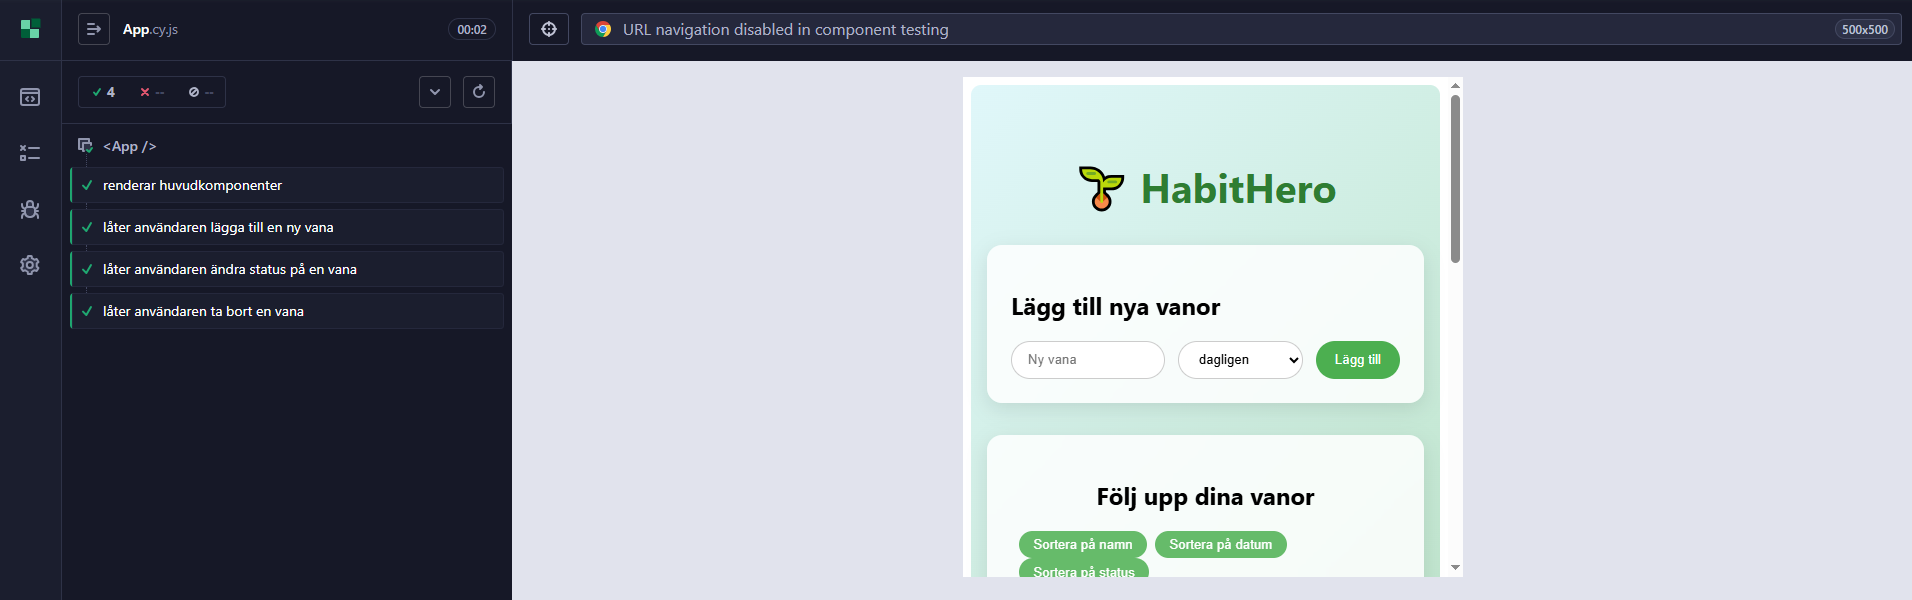
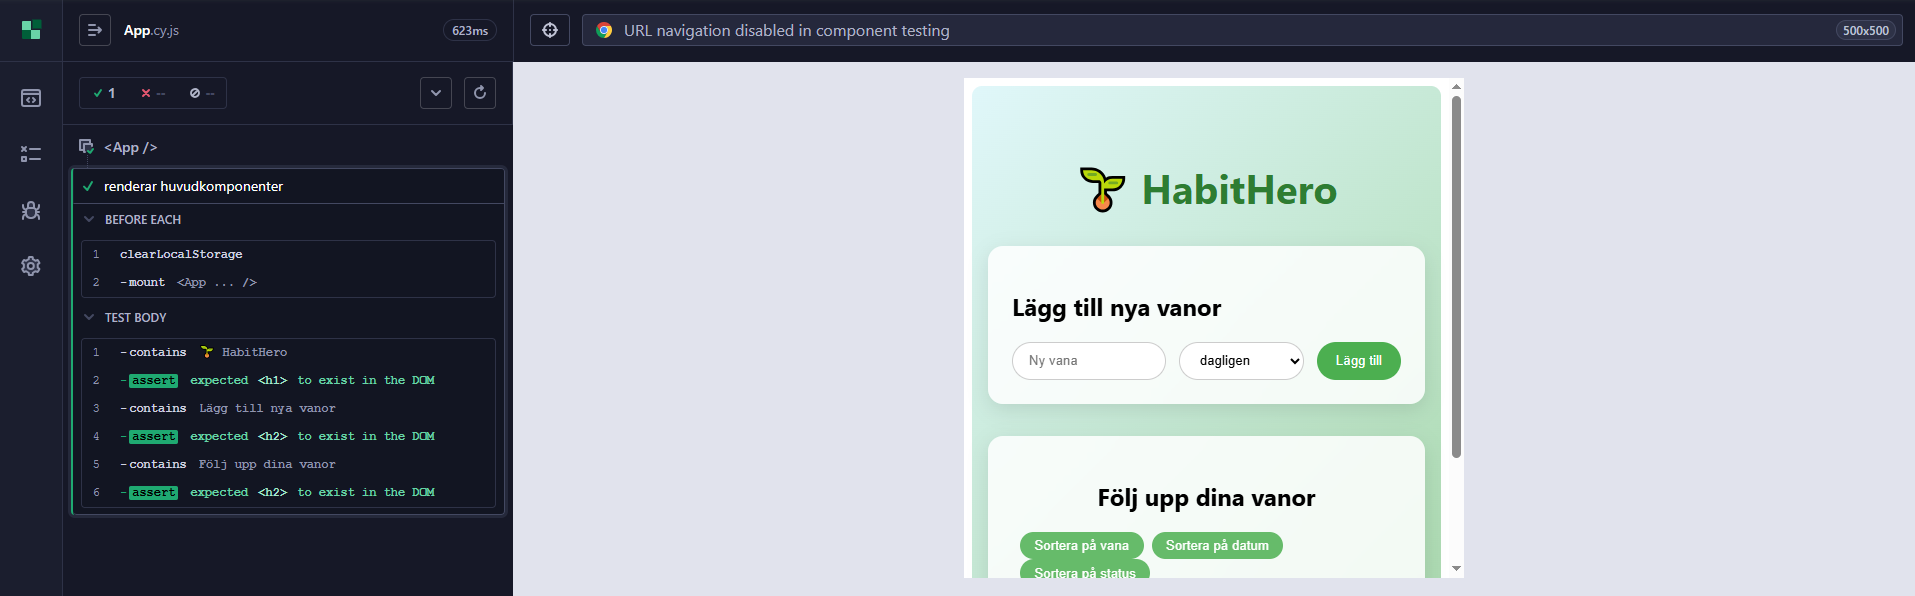
Småjusteringar samt fixade till README-filen för inlämning

diff --git a/src/App.cy.js b/src/App.cy.js
@@ -11,47 +11,4 @@ describe('<App />', () => {
     cy.contains('Lägg till nya vanor').should('exist')
     cy.contains('Följ upp dina vanor').should('exist')
   })
-
-  it('låter användaren lägga till en ny vana', () => {
-    cy.get('.habit-form-section').within(() => {
-      cy.get('input').type('Dricka vatten')
-      cy.get('select').select('dagligen')
-      cy.get('form').submit()
-    })
-
-    cy.contains('Dricka vatten').should('exist')
-  })
-
-  it('låter användaren ändra status på en vana', () => {
-    // Lägg till vana först
-    cy.get('.habit-form-section').within(() => {
-      cy.get('input').type('Springa')
-      cy.get('select').select('veckovis')
-      cy.get('form').submit()
-    })
-
-    // Ändra status på rätt habit-item
-    cy.contains('.habit-item', 'Springa')
-      .find('select')
-      .select('Implementerad')
-
-    cy.contains('Implementerade vanor').should('exist')
-    cy.contains('.implemented .habit-item', 'Springa').should('exist')
-  })
-
-  it('låter användaren ta bort en vana', () => {
-    // Lägg till vana först
-    cy.get('.habit-form-section').within(() => {
-      cy.get('input').type('Meditera')
-      cy.get('select').select('dagligen')
-      cy.get('form').submit()
-    })
-
-    // Ta bort rätt vana
-    cy.contains('.habit-item', 'Meditera')
-      .find('.btn.remove')
-      .click()
-
-    cy.contains('Meditera').should('not.exist')
-  })
 })

diff --git a/src/views/HabitTracker.vue b/src/views/HabitTracker.vue
@@ -55,7 +55,7 @@ const implementedHabits = computed(() =>
       <div class="habit-header">
         <h2>Följ upp dina vanor</h2>
         <div class="sort-buttons">
-          <button @click="doSort('name')" :class="{ active: selectedSort === 'name' }">Sortera på namn</button>
+          <button @click="doSort('name')" :class="{ active: selectedSort === 'name' }">Sortera på vana</button>
           <button @click="doSort('date')" :class="{ active: selectedSort === 'date' }">Sortera på datum</button>
           <button @click="doSort('status')" :class="{ active: selectedSort === 'status' }">Sortera på status</button>
         </div>

diff --git a/src/views/HabitTracker.cy.js b/src/views/HabitTracker.cy.js
@@ -73,7 +73,7 @@ describe('<HabitTracker />', () => {
     cy.get('form').submit()
 
     // Klicka sortera på namn
-    cy.contains('Sortera på namn').click()
+    cy.contains('Sortera på vana').click()
 
     // Kontrollera att första habit-item är "Andas"
     cy.get('.habit-list .habit-item').first().should('contain', 'Andas')

diff --git a/README.md b/README.md
@@ -33,41 +33,52 @@ Uppgiften examinerar följande moment från kursplanen:
 #### För G
 * Du har utfört uppgiften enligt specifikationen ovan
 
+<br>
+<br>
+<br>
+
+# Dokumentation av tester
+Detta projekt är en enkel habit tracker byggd med Vue.js. Appen visar hur man kan lägga till, ta bort och markera vanor som klara/icke-klara. Fokus ligger på att skriva och köra E2E-tester med Cypress för att verifiera att alla flöden fungerar som de ska.
+
+## Funktioner
+* Lägg till en vana
+* Ändra en vana
+* Ta bort en vana 
+* Markera/avmarkera en vana som klar
+* Sortera på vana, datum och status
+
+## Skärmdumpar från Cypress
+
+![App.cy.js](public/App.png)
+App.cy.js - Säkerställa att App.vue renderas korrekt
+
+![HabitForm.cy.js](public/HabitForm.png)
+HabitForm.cy.js - Skriver in en ny vana för att se att det fungerar som det ska.
+
+![HabitItem.cy.js](public/HabitItem.png)
+HabitItem.cy.js - Testar att ändrar vanor, togglar status och ta bort en vana.
+
+![HabitList.cy.js](public/HabitList.png)
+HabitList.cy.js - Renderar alla vanor och hanterar events från HabitItem.
+
+![HabitTracker.cy.js](public/HabitTracker.png)
+HabitTracker.cy.js - Testar hela habit-flödet (Renderar huvudkomponenten, lägger till, togglar och tar bort vanor).
 
 
-# Uppgiftsanteckningar
-## Printbilder från Cypress
-
-![Exempelbild](public/App.png)
-App.cy.js
-
-![Exempelbild](public/HabitForm.png)
-HabitForm.cy.js
-
-![Exempelbild](public/HabitItem.png)
-HabitItem.cy.js
-
-![Exempelbild](public/HabitList.png)
-HabitList.cy.js
-
-![Exempelbild](public/HabitTracker.png)
-HabitTracker.cy.js
-
-
-## Installation av projektet  
-#### Initierar projektet
+## Installation och körning   
+#### Initiera projektet
 1. npm init
 2. npm create vite@latest .  
 (Valde Vue och Javascript i detta projekt)
 
-#### Initierar routing på sidan
+#### Routing
 npm install vue-router
 
-#### Installation av Cypress
+#### Cypress
 1. npm add --save-dev cypress
 2. Lade till "cypress": "cypress open" i package.json under script.
 3. npx cypress open
 
-#### Kör projektet
+#### Starta projektet
 1. npm install
 2. npm run dev
